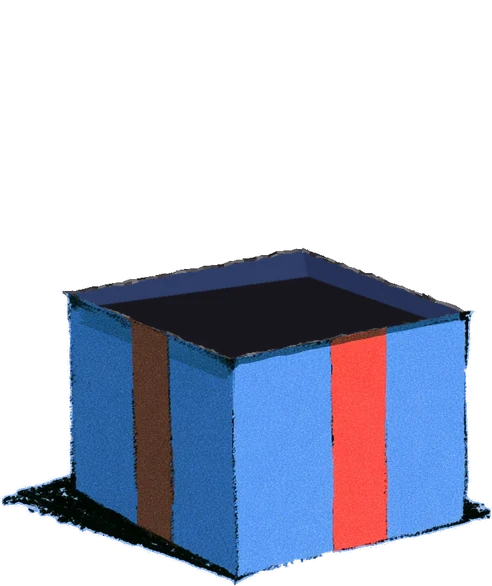
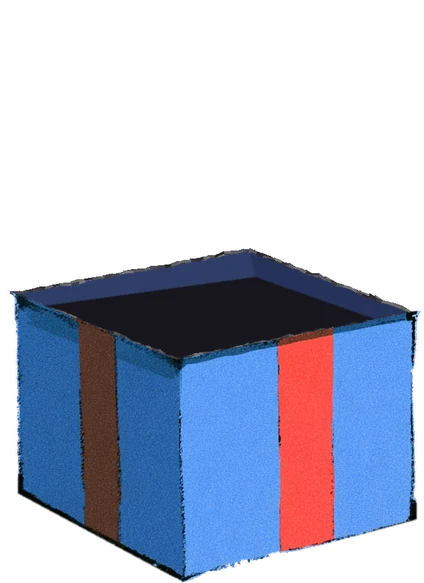
Gift box: no shadow under the box

diff --git a/components/sisi/journey-v2/GiftNote.tsx b/components/sisi/journey-v2/GiftNote.tsx
@@ -233,7 +233,7 @@ export function GiftNote({ gift, open, onOpenMap }: { gift: Gift | null; open: b
             .gn-below { position: relative; width: 100%; display: flex; justify-content: center; z-index: 2; }
             .gn-box {
               position: relative;
-              width: 220px;
+              width: 190px;
               padding: 0;
               border: 0;
               background: none;
@@ -245,7 +245,7 @@ export function GiftNote({ gift, open, onOpenMap }: { gift: Gift | null; open: b
             .gn-box:disabled { cursor: default; }
             /* lid and body are cut from one painting: same canvas, stacked */
             .gn-lid { position: absolute; inset: 0; width: 100%; z-index: 2; }
-            .gn-body { display: block; width: 220px; }
+            .gn-body { display: block; width: 190px; }
             /* the letter: lined paper, deckled, half out of a rose envelope */
             .gn-letter-wrap { position: relative; width: 100%; max-width: 340px; padding-bottom: 62px; }
             /* the envelope: painted paper with a crayon outline (back + open flap, front pocket with a gold seal) */
